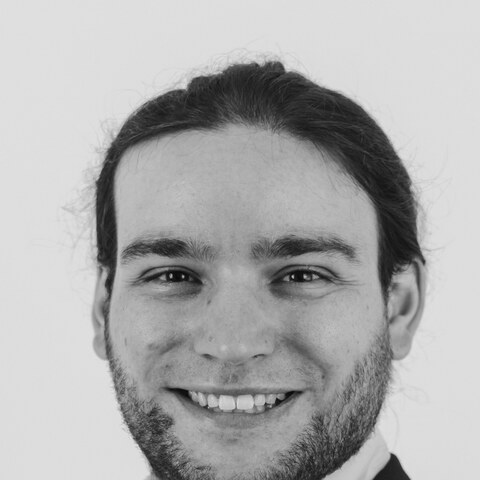
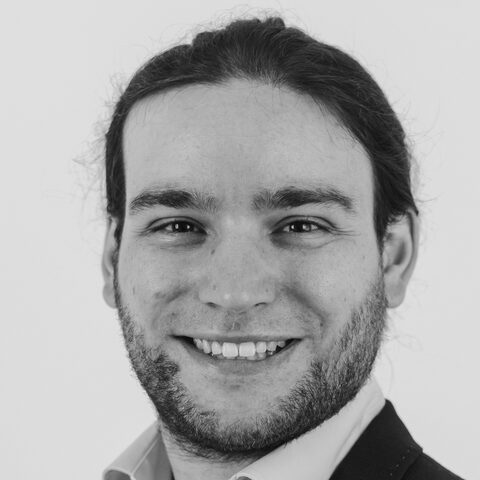
Add Christian Kaiser's closing talk and shorten the panel
Christian Kaiser (Hochschule Albstadt-Sigmaringen) speaks at 14.30 and
leads into the panel, now 15.00-15.45; the two are grouped as a closing
cluster and share one speaker card with Simon Mayer. Also replaces
Alessandro Giugno's portrait.

diff --git a/index.html b/index.html
@@ -4,7 +4,7 @@
   <meta charset="UTF-8">
   <meta name="viewport" content="width=device-width, initial-scale=1.0">
   <title>Closing the Loop | A Circular Lab Workshop on Sustainability in Fashion and Textiles</title>
-  <meta name="description" content="A one-day workshop in the Circular Lab programme at the University of St.Gallen, on sustainability in fashion and textiles: life cycle assessment, circular design, the Digital Product Passport, and a fashion exhibit. 27 October 2026, 9.00–15.30, Atrium, HSG Square.">
+  <meta name="description" content="A one-day workshop in the Circular Lab programme at the University of St.Gallen, on sustainability in fashion and textiles: life cycle assessment, circular design, the Digital Product Passport, and a fashion exhibit. 27 October 2026, 9.00–15.45, Atrium, HSG Square.">
   <meta name="keywords" content="circular fashion, sustainable textiles, life cycle assessment, digital product passport, DPP, circular economy, Circular Lab, University of St.Gallen, HSG, workshop, St.Gallen, Empa, FREITAG, SOLVE Studio, HS Albstadt-Sigmaringen">
   <meta name="author" content="Circular Lab, University of St.Gallen">
   <meta name="robots" content="index, follow">
@@ -43,7 +43,7 @@
       "url": "https://www.unisg.ch/de/forschung/forschung-im-fokus/circular-lab/"
     },
     "startDate": "2026-10-27T09:00+01:00",
-    "endDate": "2026-10-27T15:30+01:00",
+    "endDate": "2026-10-27T15:45+01:00",
     "eventStatus": "https://schema.org/EventScheduled",
     "eventAttendanceMode": "https://schema.org/OfflineEventAttendanceMode",
     "isAccessibleForFree": false,
@@ -91,6 +91,7 @@
       {"@type": "Person", "name": "Alessandro Giugno", "affiliation": "University of St.Gallen"},
       {"@type": "Person", "name": "Dominique Guinard", "affiliation": "spotd"},
       {"@type": "Person", "name": "Moritz Fiertz", "affiliation": "FREITAG AG"},
+      {"@type": "Person", "name": "Christian Kaiser", "affiliation": "Albstadt-Sigmaringen University"},
       {"@type": "Person", "name": "Simon Mayer", "affiliation": "University of St.Gallen"}
     ]
   }
@@ -143,7 +144,7 @@
       <p class="hero-by"><a href="https://www.wissenschaftsverbund.org/labs/circular-lab" target="_blank" rel="noopener">by Circular Lab &nearr;</a></p>
       <div class="hero-rule"></div>
       <p class="hero-date">27 Oct <span class="hero-year">2026</span></p>
-      <p class="hero-time">h 9.00&ndash;15.30</p>
+      <p class="hero-time">h 9.00&ndash;15.45</p>
       <p class="hero-place">Atrium, HSG Square</p>
       <div class="hero-actions">
         <a class="btn btn-solid" href="#programme">See the programme</a>
@@ -208,7 +209,7 @@
     <div class="col-label"><p class="section-label">Programme</p></div>
     <div class="col-head">
       <h2>One <span class="accent-text">day</span>, end to end.</h2>
-      <p class="lead">Tuesday, 27 October 2026 &middot; 9.00&ndash;15.30 &middot; Atrium, HSG Square.</p>
+      <p class="lead">Tuesday, 27 October 2026 &middot; 9.00&ndash;15.45 &middot; Atrium, HSG Square.</p>
     </div>
 
     <div class="programme">
@@ -391,16 +392,35 @@
         </div>
       </div>
 
-      <div class="slot">
-        <p class="slot-time">14.30&ndash;15.30</p>
-        <div>
-          <p class="slot-title">Panel Discussion with the Audience: The Sustainability and Globalization Conundrum</p>
-          <p class="slot-note">With all speakers and the audience; moderated by Simon Mayer (HSG).</p>
-          <div class="slot-people">
-            <a class="tag" href="#speaker-simon">
-              <img class="tag-avatar" src="assets/images/speakers/simon-mayer.jpeg" alt="">
-              <span><span class="tag-name">Simon Mayer</span><span class="tag-org">HSG &middot; Moderator</span></span>
-            </a>
+      <!-- The closing talk sets up the panel, so the two are grouped like
+           the deep dive above rather than left as unrelated slots. -->
+      <div class="cluster">
+        <p class="cluster-label"><span>Closing</span> Industry, value creation &amp; globalisation</p>
+
+        <div class="slot">
+          <p class="slot-time">14.30&ndash;15.00</p>
+          <div>
+            <p class="slot-title">No Circular Textiles Without Industrial Capability: Circularity as a Matter of Value Creation, Resilience, and Industrial Policy</p>
+            <div class="slot-people">
+              <a class="tag" href="#speaker-closing">
+                <img class="tag-avatar" src="assets/images/speakers/christian-kaiser.jpg" alt="">
+                <span><span class="tag-name">Christian Kaiser</span><span class="tag-org">Hochschule Albstadt-Sigmaringen</span></span>
+              </a>
+            </div>
+          </div>
+        </div>
+
+        <div class="slot">
+          <p class="slot-time">15.00&ndash;15.45</p>
+          <div>
+            <p class="slot-title">Panel Discussion with the Audience: The Sustainability and Globalization Conundrum</p>
+            <p class="slot-note">Picks up from Christian Kaiser&rsquo;s talk, with all speakers and the audience; moderated by Simon Mayer (HSG).</p>
+            <div class="slot-people">
+              <a class="tag" href="#speaker-closing">
+                <img class="tag-avatar" src="assets/images/speakers/simon-mayer.jpeg" alt="">
+                <span><span class="tag-name">Simon Mayer</span><span class="tag-org">HSG &middot; Moderator</span></span>
+              </a>
+            </div>
           </div>
         </div>
       </div>
@@ -504,13 +524,18 @@
         <a class="speaker-link" href="https://www.freitag.ch/en/mission/product-stories/circular-tarp/dpp" target="_blank" rel="noopener">Circular Tarp &nearr;</a>
       </div>
 
-      <div class="speaker-card" id="speaker-simon">
-        <img class="speaker-avatar" src="assets/images/speakers/simon-mayer.jpeg" alt="Simon Mayer">
-        <p class="speaker-role">Panel Moderator</p>
-        <p class="speaker-name">Prof. Dr. Simon Mayer</p>
-        <p class="speaker-org">University of St.Gallen</p>
-        <p class="speaker-talk">Co-initiator of Circular Lab. Moderates the closing discussion on the relationships between sustainability, globalisation, and circular value creation.</p>
-        <a class="speaker-link" href="https://ics.unisg.ch/" target="_blank" rel="noopener">ICS-HSG &nearr;</a>
+      <!-- The closing talk and the panel it leads into share one card, so
+           the grid stays at nine cards in three complete rows. -->
+      <div class="speaker-card" id="speaker-closing">
+        <div class="speaker-duo">
+          <img class="speaker-avatar" src="assets/images/speakers/christian-kaiser.jpg" alt="Christian Kaiser">
+          <img class="speaker-avatar" src="assets/images/speakers/simon-mayer.jpeg" alt="Simon Mayer">
+        </div>
+        <p class="speaker-role">Closing Talk &amp; Panel</p>
+        <p class="speaker-name">Prof. Dr.-Ing. Christian Kaiser<br>&amp; Prof. Dr. Simon Mayer</p>
+        <p class="speaker-org">Hochschule Albstadt-Sigmaringen &middot; University of St.Gallen</p>
+        <p class="speaker-talk"><em>No Circular Textiles Without Industrial Capability.</em> Christian is Vice Dean of the Faculty of Engineering at Hochschule Albstadt-Sigmaringen, teaches design and CAD for apparel and textile products, and works on the SustainTex project on textile and apparel cycles. His talk leads into the closing panel, moderated by Simon, a co-initiator of Circular Lab, on the relationships between sustainability, globalisation, and circular value creation.</p>
+        <a class="speaker-link" href="https://www.hs-albsig.de/personendetailseite/christian-kaiser" target="_blank" rel="noopener">HS Albsig &nearr;</a>
       </div>
 
     </div>
@@ -608,7 +633,7 @@
       <div class="fact">
         <p class="fact-label">Date &amp; Time</p>
         <p class="fact-value">Tuesday, 27 October 2026</p>
-        <p class="fact-sub">9.00&ndash;15.30, doors open from 8.45.<br>Both coffee breaks and lunch are included in the registration fee.</p>
+        <p class="fact-sub">9.00&ndash;15.45, doors open from 8.45.<br>Both coffee breaks and lunch are included in the registration fee.</p>
       </div>
       <div class="fact">
         <p class="fact-label">Venue</p>

diff --git a/assets/style.css b/assets/style.css
@@ -1005,5 +1005,5 @@ footer .container {
 /* ─── TABLET: keep speakers two-up before collapsing ─── */
 @media (min-width: 901px) and (max-width: 1050px) {
   .speaker-grid, .thread-grid, .lab-grid, .exhibit-grid, .facts { grid-template-columns: repeat(2, 1fr); }
-  .speaker-card#speaker-simon { grid-column: 1 / -1; }
+  .speaker-card#speaker-closing { grid-column: 1 / -1; }
 }
